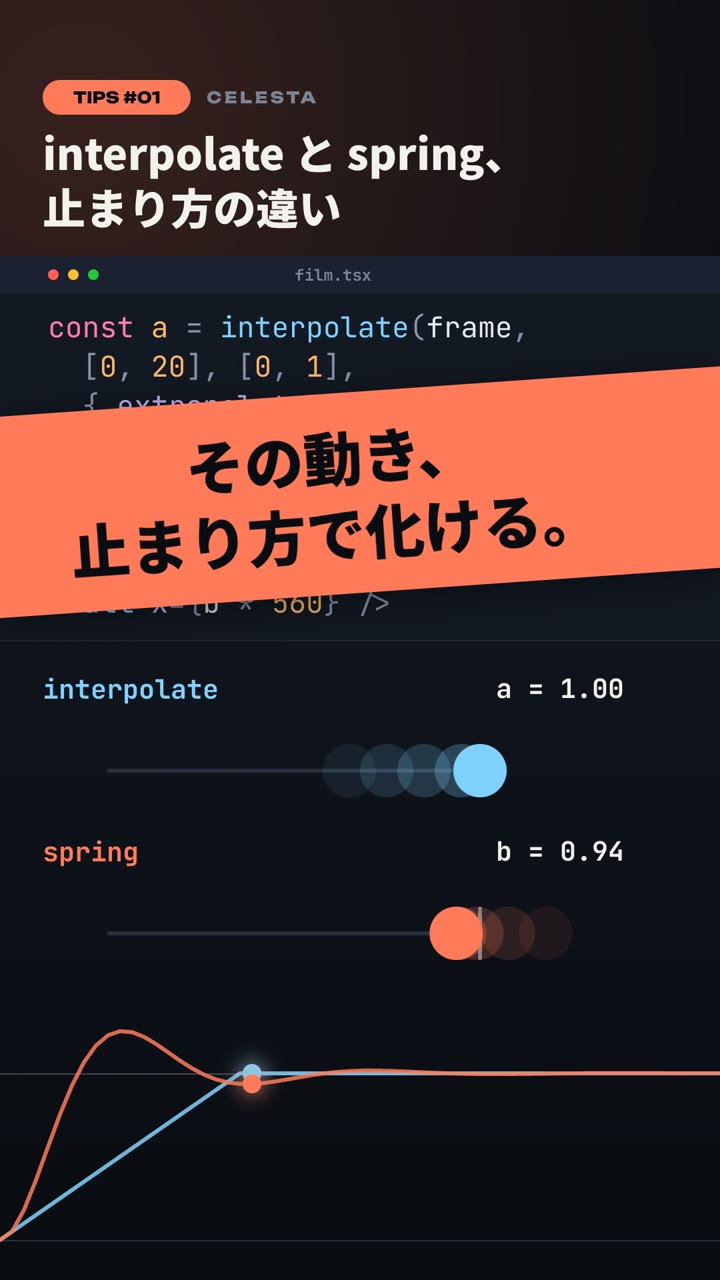
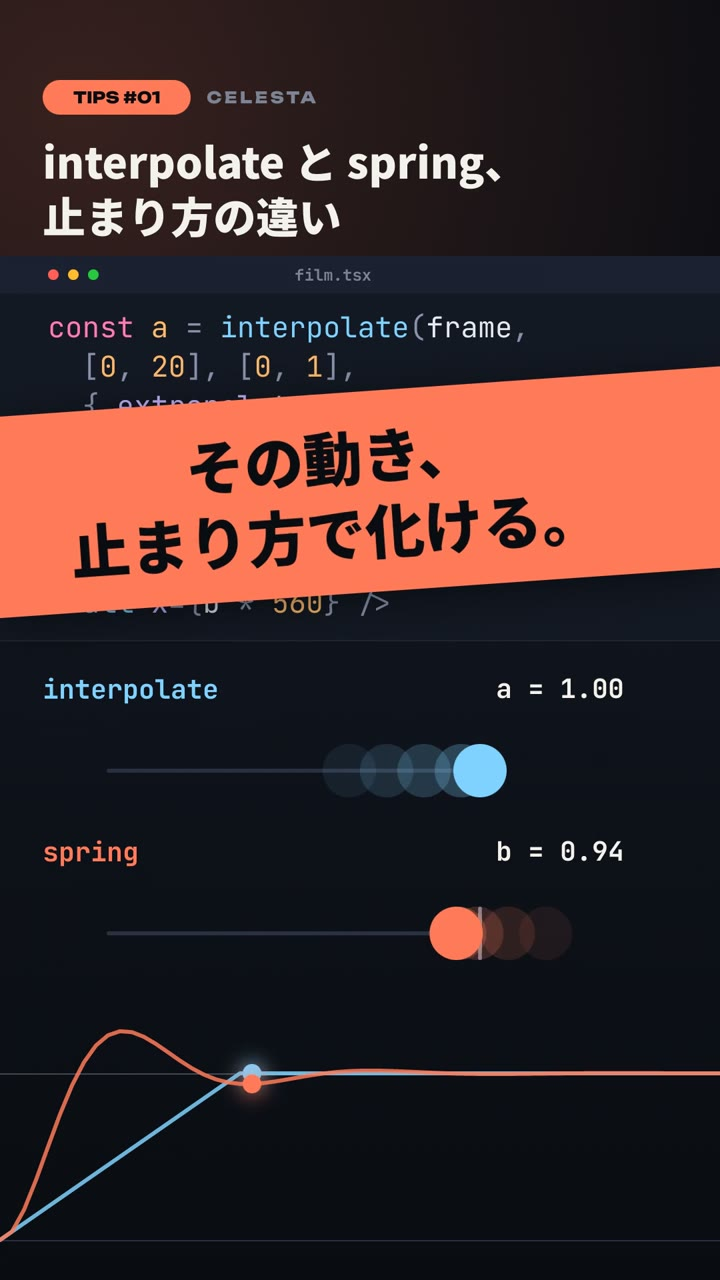
refactor(examples): split code with highlightCode()
#257 made @celesta/code's line and color-run splitting public as
highlightCode(), which follows <Code>'s rules (tabs, CRLF and lone CR).
plan.ts now uses it instead of its own splitter, and each line is drawn
with the runs as style.colorRuns. Frames are byte-identical to before,
mid-typing ones included.

poster.jpg is re-exported after #252, which removed the background's
banding.

Changed region(s): [[0.0611, 0.0938, 0.4889, 0.1875], [0.4889, 0.0938, 0.7028, 0.1562]]

diff --git a/examples/shorts-tips/plan.ts b/examples/shorts-tips/plan.ts
@@ -1,5 +1,5 @@
 import { getProjectProperty, measureText } from '@celesta/react';
-import { tokenizeCode, type CodeTheme } from '@celesta/code';
+import { highlightCode, type CodeTheme, type HighlightedCodeLine } from '@celesta/code';
 import {
   BEAT, CODE, CODE_MAX_LINES, CODE_SIZE, FONT_URLS, MONO_ADVANCE, REVEAL_AT, REVEAL_BEATS, SAFE, TYPE_FRAMES,
 } from './constants';
@@ -19,13 +19,11 @@ export const THEME: CodeTheme = {
   },
 };
 
-export type CodeRun = { text: string; color: string };
-export type CodeLine = {
-  text: string;
-  runs: CodeRun[];
-  /** Code points, for `visibleCharacters`. */
+// A line as highlightCode() returns it, with what typing and the caret need.
+export type CodeLine = HighlightedCodeLine & {
+  /** Code points of the original source line: how many there are to type. */
   length: number;
-  /** Advance of each code point in em, for the caret. */
+  /** Advance of each code point of `text` (tabs expanded) in em. */
   advances: number[];
 };
 
@@ -43,31 +41,18 @@ export type Plan = {
 // (CODE_FONTS) draws those in Noto Sans JP, which advances them by 1 em.
 const WIDE = /[ᄀ-⺀-꓏가-힣豈-﫿︰-﹏＀-｠￠-￦]/u;
 
-// Splits the tokenized snippet into lines of coloured runs.
+// The snippet's lines and colour runs, split exactly as <Code> splits them
+// (tabs expanded, CRLF and lone CR ending a line).
 function codeLines(source: string): CodeLine[] {
-  const lines: CodeLine[] = [{ text: '', runs: [], length: 0, advances: [] }];
-  for (const token of tokenizeCode(source, 'tsx')) {
-    const color = THEME.tokens[token.type] ?? THEME.foreground;
-    token.text.split('\n').forEach((part, i) => {
-      if (i > 0) lines.push({ text: '', runs: [], length: 0, advances: [] });
-      if (!part) return;
-      const line = lines[lines.length - 1];
-      const last = line.runs[line.runs.length - 1];
-      if (last?.color === color) last.text += part;
-      else line.runs.push({ text: part, color });
-      line.text += part;
-      for (const ch of part) {
-        line.length += 1;
-        line.advances.push(WIDE.test(ch) ? 1 : MONO_ADVANCE);
-      }
-    });
-  }
-  return lines;
+  return highlightCode(source, { language: 'tsx', theme: THEME }).map((line) => ({
+    ...line,
+    length: line.columns.length - 1,
+    advances: Array.from(line.text, (ch) => (WIDE.test(ch) ? 1 : MONO_ADVANCE)),
+  }));
 }
 
 export function makePlan(code: string, stages: string, tip: TipId): Plan {
-  // CRLF and lone CR end a line too (as in @celesta/code), so none is left inside a line.
-  const source = code.replace(/\r\n?/g, '\n').replace(/\t/g, '  ').replace(/\s+$/, '');
+  const source = code.replace(/\s+$/, '');
   const lines = codeLines(source);
   if (!source || lines.length > CODE_MAX_LINES) {
     throw new Error(`code: write 1 to ${CODE_MAX_LINES} lines (got ${source ? lines.length : 0})`);

diff --git a/examples/shorts-tips/components/CodePanel.tsx b/examples/shorts-tips/components/CodePanel.tsx
@@ -1,4 +1,4 @@
-import { Group, Rect, Span, Text, progress } from '@celesta/react';
+import { Group, Rect, Text, progress } from '@celesta/react';
 import { Circle } from '@celesta/shapes';
 import { withAlpha } from '../color';
 import { BAR, BEAT, C, CODE, CODE_FONTS, FONT, SAFE, TYPE_FRAMES, W } from '../constants';
@@ -11,8 +11,8 @@ import { THEME, getPlan } from '../plan';
 //
 // It is drawn here rather than with @celesta/code's <Code>, to control the
 // look: a band on the newest line, a caret that blinks on the beat, and a
-// band that runs to the frame's edges. The colours come from tokenizeCode()
-// (plan.ts). Positions come from JetBrains Mono's fixed advance instead of
+// band that runs to the frame's edges. The lines and colour runs come from
+// highlightCode() (plan.ts), so they split and colour exactly like <Code>. Positions come from JetBrains Mono's fixed advance instead of
 // measuring, so scripts/inspect.mjs can evaluate every frame even without
 // an exporter to shape text (--no-native).
 export function CodePanel({ frame, accent }: { frame?: number; accent: string }) {
@@ -49,9 +49,9 @@ export function CodePanel({ frame, accent }: { frame?: number; accent: string })
           <Text key={i} x={CODE.textX} y={top + i * lineHeight + lineHeight * 0.72} anchorY="baseline"
             style={{
               fontFamily: CODE_FONTS, fontSize, fill: { type: 'solid', color: THEME.foreground },
-              visibleCharacters: typed < line.length ? typed : undefined,
+              colorRuns: line.runs, visibleCharacters: typed < line.length ? line.columns[typed] : undefined,
             }}>
-            {line.runs.map((run, j) => <Span key={j} style={{ fill: run.color }}>{run.text}</Span>)}
+            {line.text}
           </Text>
         );
       })}
@@ -64,11 +64,11 @@ export function CodePanel({ frame, accent }: { frame?: number; accent: string })
 // A block caret after the typed text of the newest line; it blinks on the beat once the line is done.
 function Caret({ frame, line }: { frame: number; line: number }) {
   const { lines, fontSize, lineHeight, revealAt } = getPlan();
-  const { length, advances } = lines[line];
+  const { length, columns, advances } = lines[line];
   const typed = Math.floor(length * progress(frame, revealAt[line], TYPE_FRAMES));
   const done = typed >= length;
   if (done && (frame - revealAt[line]) % BEAT >= BEAT / 2) return null;
-  const x = CODE.textX + advances.slice(0, typed).reduce((a, b) => a + b, 0) * fontSize;
+  const x = CODE.textX + advances.slice(0, columns[typed]).reduce((a, b) => a + b, 0) * fontSize;
   const y = CODE.bar + CODE.padY + line * lineHeight + (lineHeight - fontSize * 1.15) / 2;
   return <Rect x={x + 2} y={y} width={Math.round(fontSize * 0.5)} height={Math.round(fontSize * 1.15)} fill="#FFFFFFCC" />;
 }

diff --git a/examples/shorts-tips/README.ja.md b/examples/shorts-tips/README.ja.md
@@ -85,7 +85,8 @@ Shorts・TikTok・Reels は、下の約 20%（y ≥ 1536）にキャプション
 
 ## コードの描画について
 
-コードのハイライトは `@celesta/code` の `tokenizeCode()` で行い、1 行を 1 つの `<Text>` として色を `<Span>` で付けています。
+コードは `@celesta/code` の `highlightCode()` で行と色の区切りに分けています。分け方は `<Code>` と同じ規則です。
+それを 1 行 1 つの `<Text>` にして、色の区切りを `style.colorRuns` に渡しています。
 `<Code>` コンポーネントを使わずに描いているのは、見せ方を自由にするためです。最新の行の帯と左端の色、拍に合わせて点滅するカーソル、画面の端まで伸びる帯がそれにあたります。
 
 コードの書体は、書体の並び `['JetBrains Mono', 'Noto Sans JP']`（`constants.ts` の `CODE_FONTS`）です。

diff --git a/examples/shorts-tips/README.md b/examples/shorts-tips/README.md
@@ -86,7 +86,8 @@ stays inside `SAFE` in `constants.ts`. To check, export with `--props '{"guides"
 
 ## How the code is drawn
 
-The code is highlighted with `tokenizeCode()` from `@celesta/code` and drawn as one `<Text>` per line, colored with `<Span>`.
+The code is split and colored with `highlightCode()` from `@celesta/code`, which follows the same rules as `<Code>`,
+and drawn as one `<Text>` per line, with its runs as `style.colorRuns`.
 It is drawn by hand rather than with the `<Code>` component to control the look: a band on the newest line with a colored edge,
 a caret that blinks on the beat, and bands that run to the frame's edges.
 
